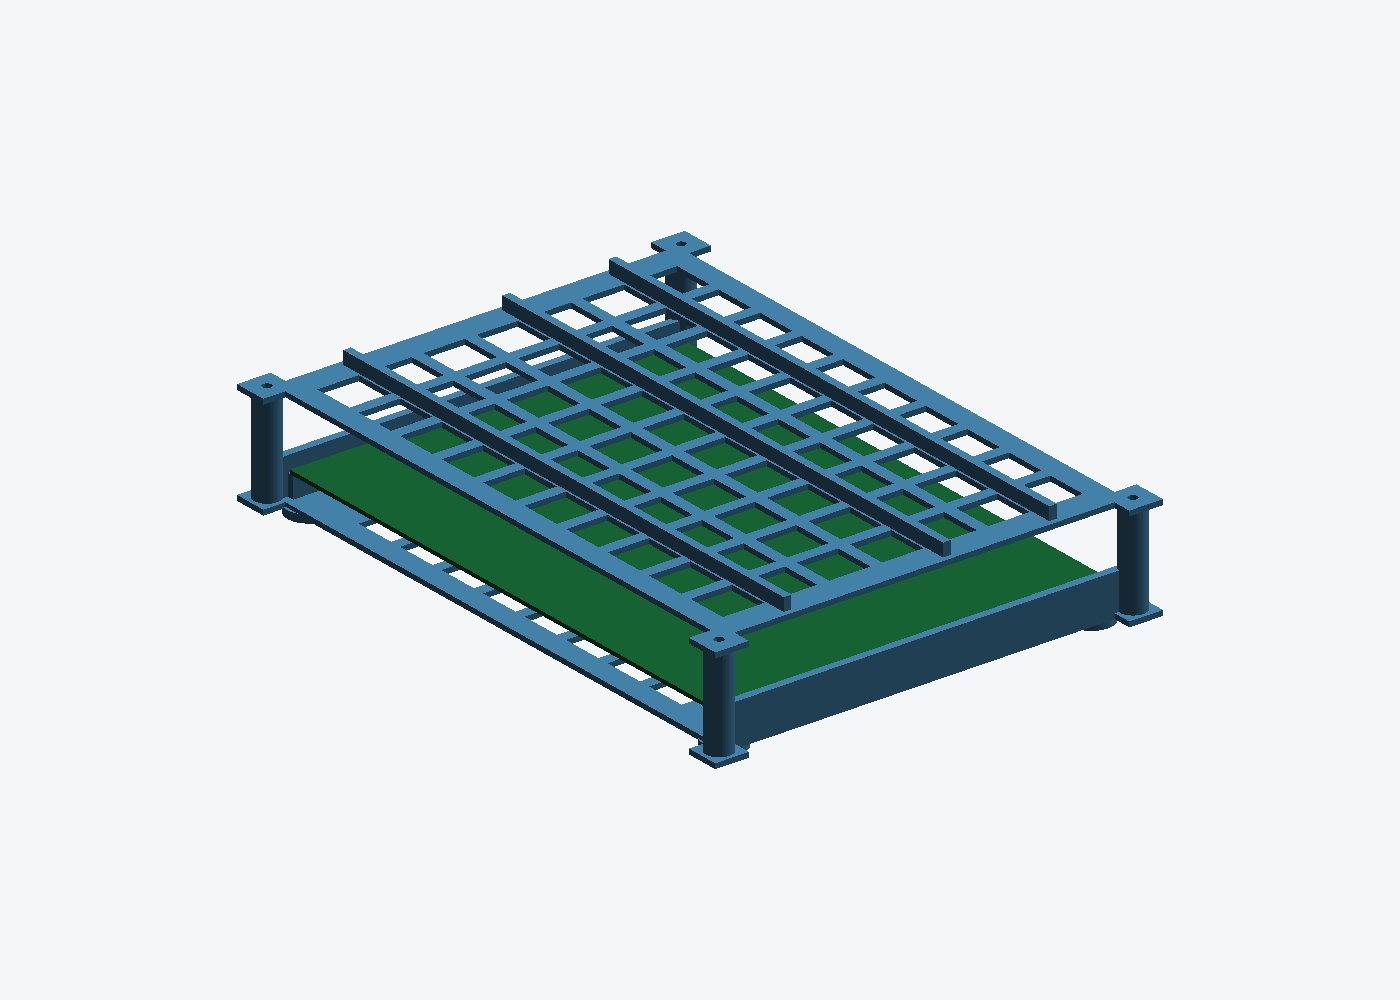
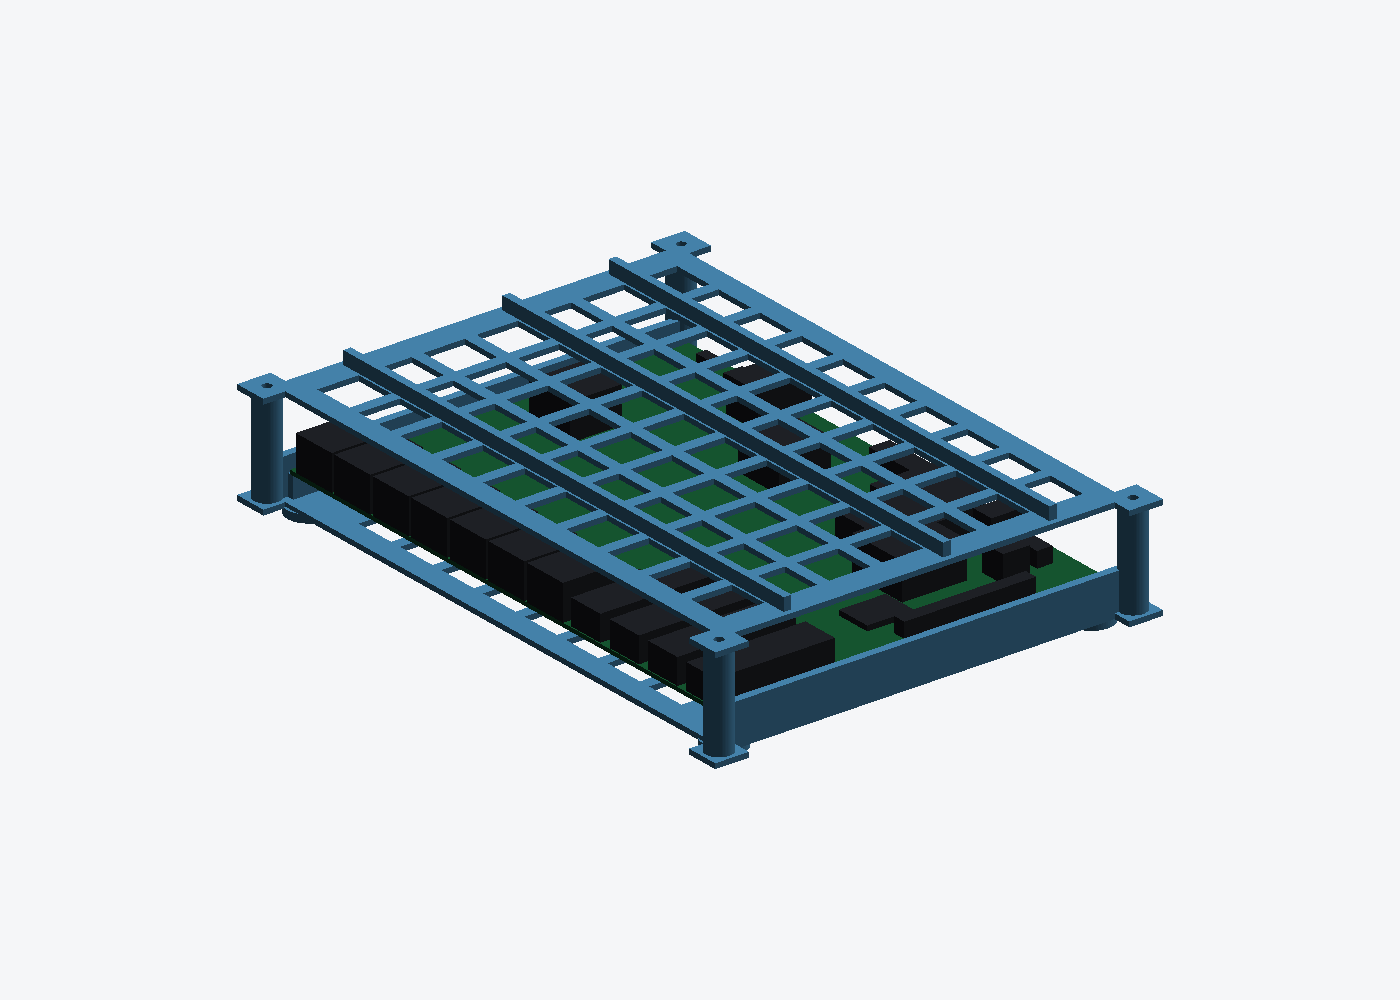
Add a PnP-derived board mock, port-window check, and board-in-case previews
board_mock.py places a block per significant part at its pick-and-place X/Y and
checks every window in lan9692_box.py against the thing that has to pass
through it. That caught two windows measured against the wrong reference: the
DC jack and the tact switch only put a barrel and a plunger through the panel,
not their bodies. All eleven now clear, tightest margins 0.25 mm in x and
0.40 mm in z.

It also answers the open INNER_H question properly. The tallest part with a real
source is 13.5 mm (MATEnet, RJ45), and the expansion header the board photo
made look tall is in fact 5.84 mm - its own BOM line says 5.84MH. The entire
26 mm rests on the five DC-DC daughter modules, whose stack height no released
document gives. Measuring one drops INNER_H to about its height plus 4.

Bottom-side clearance is now data too: 365 bottom parts, all 0402/0603, TSSOP
and 3.2x2.5 inductors, so ~1.6 mm against 8 mm of underboard space.

Downgrade the DC jack window's source label from datasheet to estimate - the
barrel axis height was never sourced.

Changed region(s): [[0.1843, 0.341, 0.7679, 0.713], [0.3686, 0.372, 0.4607, 0.434]]

diff --git a/lan9692-evb-case/board_mock.py b/lan9692-evb-case/board_mock.py
@@ -1,0 +1,148 @@
+#!/usr/bin/env python3
+"""Representative EVB-LAN9692-LM model, for previews and for checking the
+closed box's port windows against real connector positions.
+
+This is NOT the board. It is the PCB outline plus a block per significant part,
+every one placed at the X/Y from the released pick-and-place file. Only the
+heights are external: connector datasheets, the SFP MSA, or - for the five
+DC-DC daughter modules - an assumption, which is exactly the number `INNER_H`
+in the case scripts is waiting on.
+
+    python3 board_mock.py            # -> board_mock.stl + window check
+"""
+import numpy as np
+import trimesh
+from trimesh.creation import box, cylinder
+
+from lan9692_case import BW, BH, PCB_T
+
+MODULE_H = 14.0   # <-- the one guess. 3x ADM00987 + 2x PM-LV2 are PCB daughter
+                  # modules on Samtec TMM 2 mm headers; no released document
+                  # gives their stack height. Everything else below is sourced.
+
+# name, x, y, width(X), depth(Y), height above PCB, source
+# THRU holds the parts where only a feature passes through the panel, not the
+# body: (protruding feature size across, axis height above the PCB). Both of
+# these axis heights are estimates - nothing published gives them.
+THRU = {'DC jack J23': (5.5, 6.5),     # 5.5 mm barrel of a 5.5/2.5 plug
+        'reset SW2': (3.5, 3.5)}       # tact switch plunger
+PARTS = [
+    # front edge -------------------------------------------------------------
+    *[(f'MATEnet {n}', x, 10.541, 17.75, 21.1, 13.5, 'TE 9-2304372-9')
+      for n, x in zip('1234567', (11.684, 30.734, 49.784, 68.834, 87.884,
+                                  106.934, 125.984))],
+    *[(f'SFP cage {c}', x, 23.4, 14.5, 46.0, 9.8, 'SFP MSA')
+      for c, x in zip('ABCD', (145.6, 164.6, 183.6, 202.6))],
+    # rear edge --------------------------------------------------------------
+    ('RJ45 J33', 58.803, 138.936, 15.88, 21.0, 13.5, '8P8C w/ magnetics'),
+    ('USB-C J30', 37.762, 144.866, 9.0, 7.5, 3.2, 'USB-C receptacle'),
+    ('OCuLink J21', 118.305, 143.621, 22.0, 8.0, 7.0, 'estimate'),
+    ('DC jack J23', 171.283, 140.707, 9.0, 14.5, 11.0, 'PJ-002BH'),
+    ('switch SW3', 188.110, 139.767, 12.0, 6.0, 6.0, 'estimate'),
+    ('reset SW2', 21.844, 144.018, 6.0, 4.0, 4.0, 'estimate'),
+    # tall interior ----------------------------------------------------------
+    ('DC-DC U3', 151.568, 127.580, 25.0, 25.0, MODULE_H, 'ADM00987, assumed'),
+    ('DC-DC U14', 160.110, 107.770, 25.0, 25.0, MODULE_H, 'ADM00987, assumed'),
+    ('DC-DC U10', 174.880, 102.450, 25.0, 25.0, MODULE_H, 'ADM00987, assumed'),
+    ('DC-DC U20', 95.440, 116.340, 20.0, 20.0, MODULE_H, 'PM-LV2, assumed'),
+    ('DC-DC U17', 27.930, 88.430, 20.0, 20.0, MODULE_H, 'PM-LV2, assumed'),
+    ('cap C324', 191.158, 127.071, 10.3, 10.3, 10.2, 'alu F case'),
+    ('header J4', 205.190, 100.330, 5.08, 50.8, 5.84, '2x20, 5.84MH'),
+    ('header J19', 5.840, 57.850, 5.08, 2.54, 5.84, '1x2, 5.84MH'),
+    # flat, for looks --------------------------------------------------------
+    ('LAN9692 U4', 189.640, 78.250, 14.0, 18.0, 2.0, 'FBGA-100'),
+    *[(f'PHY {d}', x, 36.85, 7.0, 7.0, 0.9, 'QFN-48')
+      for d, x in zip('01234567', (10.44, 29.38, 48.43, 67.48, 86.53, 105.58,
+                                   124.63))],
+]
+
+
+def bx(x0, x1, y0, y1, z0, z1):
+    m = box(extents=(x1 - x0, y1 - y0, z1 - z0))
+    m.apply_translation(((x0 + x1) / 2, (y0 + y1) / 2, (z0 + z1) / 2))
+    return m
+
+
+PCB_COLOR = (0.09, 0.36, 0.20)
+PART_COLOR = (0.13, 0.14, 0.16)
+
+
+def build(z_pcb=0.0, colors=False):
+    """PCB top face ends up at z_pcb + PCB_T.
+
+    With colors=True also returns a per-face colour array so previews can tell
+    the board apart from the enclosure.
+    """
+    top = z_pcb + PCB_T
+    meshes = [bx(0, BW, 0, BH, z_pcb, top)]
+    tint = [PCB_COLOR]
+    for name, x, y, w, d, h, _ in PARTS:
+        x0, x1 = x - w / 2, x + w / 2
+        y0, y1 = y - d / 2, y + d / 2
+        # edge connectors are clipped to the board outline for the preview
+        meshes.append(bx(max(x0, -1), min(x1, BW + 1), max(y0, -1), min(y1, BH + 1),
+                         top, top + h))
+        tint.append(PART_COLOR)
+    m = trimesh.util.concatenate(meshes)
+    if not colors:
+        return m
+    fc = np.vstack([np.tile(c, (len(q.faces), 1)) for q, c in zip(meshes, tint)])
+    return m, fc
+
+
+def check_windows():
+    """Every port window in lan9692_box.py must clear its connector."""
+    import lan9692_box as B
+    windows = {}
+    for side in ('front', 'rear'):
+        for p in B.PORTS[side]:
+            windows[p['name']] = (p['x'], p['z'])
+        for p in B.ROUND_PORTS.get(side, []):
+            windows[p['name']] = ((p['x'] - p['d'] / 2, p['x'] + p['d'] / 2),
+                                  (p['z'] - p['d'] / 2, p['z'] + p['d'] / 2))
+    pairs = [('MATEnet x7', [p for p in PARTS if p[0].startswith('MATEnet')]),
+             *[(f'SFP+ {c}', [p for p in PARTS if p[0] == f'SFP cage {c}']) for c in 'ABCD'],
+             ('RJ45 J33', [p for p in PARTS if p[0] == 'RJ45 J33']),
+             ('USB-C J30', [p for p in PARTS if p[0] == 'USB-C J30']),
+             ('OCuLink J21', [p for p in PARTS if p[0] == 'OCuLink J21']),
+             ('switch SW3', [p for p in PARTS if p[0] == 'switch SW3']),
+             ('DC jack J23', [p for p in PARTS if p[0] == 'DC jack J23']),
+             ('reset SW2', [p for p in PARTS if p[0] == 'reset SW2'])]
+    print(f"{'window':14s} {'part span':>22s} {'window span':>22s}   "
+          f"{'x margin':>9s} {'z margin':>9s}")
+    worst = []
+    for wname, ps in pairs:
+        (wx0, wx1), (wz0, wz1) = windows[wname]
+        if wname in THRU:
+            size, axis = THRU[wname]
+            cx0, cx1 = ps[0][1] - size / 2, ps[0][1] + size / 2
+            cz0, ch = axis - size / 2, axis + size / 2
+        else:
+            cx0 = min(p[1] - p[3] / 2 for p in ps)
+            cx1 = max(p[1] + p[3] / 2 for p in ps)
+            cz0, ch = 0.0, max(p[5] for p in ps)
+        mx = min(cx0 - wx0, wx1 - cx1)
+        mz = min(cz0 - wz0, wz1 - ch)
+        worst.append((mx, mz, wname))
+        print(f"{wname:14s} {cx0:8.2f}..{cx1:8.2f} x{ch:5.1f}h "
+              f"{wx0:8.2f}..{wx1:8.2f} x{wz1:5.1f} "
+              f"{mx:9.2f} {mz:9.2f}  {'ok' if mx > 0 and mz > 0 else 'CLASH'}")
+    bad = [w for mx, mz, w in worst if mx <= 0 or mz <= 0]
+    print(f"\ntightest x margin {min(w[0] for w in worst):.2f} mm, "
+          f"tightest z margin {min(w[1] for w in worst):.2f} mm")
+    tallest = max(PARTS, key=lambda p: p[5])
+    print(f"tallest part: {tallest[0]} at {tallest[5]:.1f} mm above the PCB ({tallest[6]})")
+    known = [p for p in PARTS if 'assumed' not in p[6]]
+    print(f"tallest with a source: {max(known, key=lambda p: p[5])[0]} at "
+          f"{max(p[5] for p in known):.1f} mm")
+    return not bad
+
+
+if __name__ == '__main__':
+    m = build()
+    m.export('board_mock.stl')
+    e = m.bounds[1] - m.bounds[0]
+    print(f"board mock {e[0]:.2f} x {e[1]:.2f} x {e[2]:.2f} mm "
+          f"({len(PARTS)} parts)\n")
+    ok = check_windows()
+    print("\nall windows clear" if ok else "\nWINDOW CLASH - fix PORTS")

diff --git a/lan9692-evb-case/assembly_preview.py b/lan9692-evb-case/assembly_preview.py
@@ -1,42 +1,69 @@
 #!/usr/bin/env python3
-"""Render tray + PCB + lid together so the fit can be eyeballed.
+"""Render each enclosure variant with the board in it.
 
-The PCB slab is drawn for the preview only - it is not part of any STL.
-    python3 assembly_preview.py [out.png]
+The board is `board_mock.py` - the real PCB outline with a block per part at its
+pick-and-place position - so these pictures also show whether the port windows
+line up with the connectors.
+
+    python3 assembly_preview.py          # writes every img/*.png below
 """
-import sys
-import sys
-
 import numpy as np
 import trimesh
 
+import board_mock
+import lan9692_box as B
 import lan9692_case as C
 from render_preview import render
 
+CASE = (0.29, 0.55, 0.72)
+PANEL = (0.22, 0.44, 0.62)
+PCB = (0.10, 0.42, 0.22)
+PART = (0.16, 0.18, 0.21)
 
-def main(out='assembly.png', elev=26.0, azim=-52.0, with_lid=True):
-    parts, colors = [], []
-    tray = trimesh.load('lan9692_tray.stl')
-    parts.append(tray)
-    colors.append((0.29, 0.55, 0.72))
 
-    pcb = trimesh.creation.box(extents=(C.BW, C.BH, C.PCB_T))
-    pcb.apply_translation((C.BW / 2, C.BH / 2, C.Z_PCB + C.PCB_T / 2))
-    parts.append(pcb)
-    colors.append((0.10, 0.42, 0.22))
+def scene(meshes, colors):
+    """colors entries are either an RGB tuple or a ready per-face array."""
+    fc = np.vstack([c if np.ndim(c) == 2 else np.tile(c, (len(m.faces), 1))
+                    for m, c in zip(meshes, colors)])
+    return trimesh.util.concatenate(meshes), fc
 
-    if with_lid:
-        lid = trimesh.load('lan9692_lid.stl')
-        lid.apply_translation((0, 0, C.Z_LID))
-        parts.append(lid)
-        colors.append((0.29, 0.55, 0.72))
 
-    face_colors = np.vstack([np.tile(c, (len(p.faces), 1))
-                             for p, c in zip(parts, colors)])
-    render(trimesh.util.concatenate(parts), elev, azim,
-           face_colors=face_colors).save(out)
-    print('wrote', out)
+def board(z_pcb):
+    """The mock board with its own per-face colours."""
+    return board_mock.build(z_pcb, colors=True)
+
+
+def load(name, dz=0.0):
+    m = trimesh.load(name)
+    if dz:
+        m.apply_translation((0, 0, dz))
+    return m
+
+
+def main():
+    # open tray, board in place, lid above
+    tray = load('lan9692_tray.stl')
+    lid = load('lan9692_lid.stl', C.Z_LID)
+    b, bc = board(C.Z_PCB)
+    m, fc = scene([tray, b, lid], [CASE, bc, CASE])
+    render(m, 26, -52, face_colors=fc).save('img/assembly.png')
+
+    # closed box, lid off so the board and the port windows are both visible
+    for prefix, tag in (('lan9692_box_', 'box'), ('lan9692_boxsolid_', 'boxsolid')):
+        parts = [load(prefix + 'tray.stl'), load(prefix + 'front.stl'),
+                 load(prefix + 'rear.stl')]
+        cols = [CASE, PANEL, PANEL]
+        bb, bc = board(B.Z_PCB)
+        m, fc = scene(parts + [bb], cols + [bc])
+        render(m, 30, -50, face_colors=fc).save(f'img/{tag}_with_board.png')
+
+        m, fc = scene(parts + [bb, load(prefix + 'lid.stl', B.Z_LID)],
+                      cols + [bc, CASE])
+        render(m, 24, -55, face_colors=fc).save(f'img/{tag}_assembly.png')
+        # low front view: connectors sitting in their windows
+        render(m, 8, -4, face_colors=fc).save(f'img/{tag}_front_ports.png')
+    print('wrote img/assembly.png, img/box_*.png, img/boxsolid_*.png')
 
 
 if __name__ == '__main__':
-    main(sys.argv[1] if len(sys.argv) > 1 else 'assembly.png')
+    main()

diff --git a/check_stls.py b/check_stls.py
@@ -1,5 +1,7 @@
 #!/usr/bin/env python3
-"""Validate every STL in the repo the way a print service's uploader does.
+"""Validate every printable STL in the repo the way a print service's uploader does.
+
+(`*mock*.stl` is skipped - board_mock.stl is a preview aid, not a part.)
 
     python3 check_stls.py
 
@@ -25,7 +27,7 @@ def check(path):
 
 
 def main():
-    paths = sorted(glob.glob('*/*.stl'))
+    paths = [p for p in sorted(glob.glob('*/*.stl')) if 'mock' not in p]
     if not paths:
         sys.exit('no STLs found - run from the repo root')
     width = max(len(p) for p in paths)

diff --git a/lan9692-evb-case/lan9692_box.py b/lan9692-evb-case/lan9692_box.py
@@ -101,7 +101,7 @@ PORTS = dict(
     ],
 )
 ROUND_PORTS = dict(
-    rear=[dict(name='DC jack J23', x=171.283, z=6.5, d=11.0, src='ds'),
+    rear=[dict(name='DC jack J23', x=171.283, z=6.5, d=11.0, src='est'),
           dict(name='reset SW2', x=21.844, z=3.5, d=6.0, src='est')],
 )
 

diff --git a/lan9692-evb-case/README.md b/lan9692-evb-case/README.md
@@ -17,7 +17,13 @@ Three styles, same board data:
 | Volume | 74.3 + 44.2 = **118.5 cm³** | 86.7 + 12.8 + 17.2 + 46.8 = **163.5 cm³** | 124.6 + 12.8 + 17.2 + 82.7 = **237.2 cm³** |
 | Fasteners | 8 × M3 × 8, 4 × M3 × 10 | same | same |
 
-![box](img/box_assembly.png)
+![box with the board in it](img/box_with_board.png)
+
+Vented box, lid off. The board is `board_mock.py` — the real PCB outline with a
+block per part at its pick-and-place position — so the picture doubles as proof
+that the windows line up:
+
+![ports](img/box_front_ports.png)
 ![sealed box](img/boxsolid_assembly.png)
 
 ### On sealing it completely
@@ -52,7 +58,7 @@ them; no extra screws.
 | RJ45 `J33` | L829-1J1T-43 | 17.0 × 15.0 at x 58.803 | −0.5…14.5 | 8P8C standard body |
 | USB-C `J30` | USB4105 | 10.5 × 5.0 at x 37.762, outer relief | −0.6…4.4 | receptacle 8.94 × 3.16 |
 | OCuLink `J21` | AMP G14A42121B12HR | 24.0 × 9.0 at x 118.305 | −0.5…8.5 | **estimate** |
-| DC jack `J23` | PJ-002BH | Ø11.0 at x 171.283 | centre 6.5 | 2.5 mm barrel |
+| DC jack `J23` | PJ-002BH | Ø11.0 at x 171.283 | centre 6.5 | **estimated** axis height |
 | Power switch `SW3` | ESW-500SSP1S1M6QEA | 14.0 × 7.5 at x 188.110 | −0.5…7.0 | **estimate** |
 | Reset `SW2` | 1825027-5 | Ø6.0 at x 21.844 | centre 3.5 | **estimate** |
 
@@ -126,15 +132,48 @@ bottom-side pads   1734 apertures inside the outline
   source.
 * **PCB thickness 1.535 mm**, 4 layers — §A.2 of the user's guide.
 
-Still not derived from data: `INNER_H = 26`, the clearance above the board.
-Gerbers carry no heights. The board photos in Figures 4-1/4-2 put the tallest
-parts (vertical expansion header, red DC/DC modules, SMA jacks) under 20 mm, but
-print the tray first and measure before ordering the lid.
+### Why `INNER_H` is 26 mm, and what it should be
+
+This is the only number in the repo that is not from a source, so here is
+exactly what it rests on. `board_mock.py` lists every significant part with the
+height it was given:
+
+| Part | Height above PCB | Source |
+|---|---|---|
+| MATEnet `J11/J12` ×7 | 13.5 mm | TE 9-2304372-9 |
+| RJ45 `J33` | 13.5 mm | 8P8C with magnetics |
+| DC jack `J23` | 11.0 mm | PJ-002BH body |
+| Alu cap `C324` | 10.2 mm | F case |
+| SFP+ cage ×4 | 9.8 mm | SFP MSA |
+| Expansion header `J4` (2×20) | **5.84 mm** | `5.84MH` in the board's own BOM line |
+| **DC-DC modules ×5** | **?** | `MOD_DC-DC_ADM00987` ×3 + `MOD_DC-DC_PM-LV2` ×2 |
+
+So **the tallest part with a real source is 13.5 mm**, and the expansion header
+— which the board photo made look like the tall one — is actually the shortest
+of the candidates at 5.84 mm. The whole 26 mm exists for one reason: the five
+DC-DC daughter modules. They are PCB assemblies (`ADM00987` is Microchip's
+MCP19035 8 A power module, mounted on Samtec TMM 2 mm headers) and no released
+document gives their stack height. They are the red blocks in Figure 4-2.
+
+Measure one of them and `INNER_H` can drop to about *height + 4 mm*:
+
+* if they are ≤ 14 mm → `INNER_H = 18`, box 8 mm shorter, ~15% less material
+* if they stand vertically and reach 22 mm → 26 is already correct
+
+Nothing else moves: every port window rides on the PCB top face, and the
+tallest one tops out 14.5 mm above it.
+
+While on heights, the other direction is now settled from data rather than
+guessed: the bottom side carries **365 parts, all 0402/0603 passives, TSSOP and
+3.2 × 2.5 mm inductors — about 1.6 mm at worst**, so the 8 mm of underboard
+space is verified clear with room to spare.
 
 ## Regenerating
 
 ```bash
 pip3 install --break-system-packages trimesh manifold3d
+python3 board_mock.py              # board preview + port-window clearance check
+python3 assembly_preview.py        # every img/*.png with the board in place
 python3 lan9692_case.py            # -> lan9692_tray.stl, lan9692_lid.stl
 python3 lan9692_box.py             # -> lan9692_box_{tray,front,rear,lid}.stl
 python3 lan9692_box.py --solid     # -> lan9692_boxsolid_*.stl (ports only)
@@ -170,6 +209,29 @@ creeps under a warm board.
 MJF PA12 also prints it as-is (min wall 1.0 mm, everything here is ≥2.0 mm) and
 gives much better threads, but at 122 cm³ for the pair it is the expensive
 option.
+
+## Port-window check
+
+`board_mock.py` measures every window in `lan9692_box.py` against the connector
+that has to pass through it:
+
+```
+window                      part span            window span    x margin  z margin
+MATEnet x7         2.81..  134.86 x 13.5h     2.06..  135.61 x 14.5      0.75      0.50  ok
+SFP+ A           138.35..  152.85 x  9.8h   138.10..  153.10 x 10.4      0.25      0.40  ok
+RJ45 J33          50.86..   66.74 x 13.5h    50.30..   67.30 x 14.5      0.56      0.50  ok
+USB-C J30         33.26..   42.26 x  3.2h    32.51..   43.01 x  4.4      0.75      0.60  ok
+OCuLink J21      107.31..  129.31 x  7.0h   106.31..  130.31 x  8.5      1.00      0.50  ok
+switch SW3       182.11..  194.11 x  6.0h   181.11..  195.11 x  7.0      1.00      0.50  ok
+DC jack J23      168.53..  174.03 x  9.2h   165.78..  176.78 x 12.0      2.75      2.75  ok
+reset SW2         20.09..   23.59 x  5.2h    18.84..   24.84 x  6.5      1.25      1.25  ok
+```
+
+Two of these are compared against the feature that actually goes through the
+panel rather than the whole body — the DC jack's 5.5 mm barrel and the tact
+switch's plunger — because their bodies sit behind the panel. The SFP row is
+checked against the 14.5 mm cage body, which is stricter than the 14.25 mm MSA
+aperture that has to line up, so its 0.25 mm is pessimistic.
 
 ## What happens if the derived numbers are off
 
